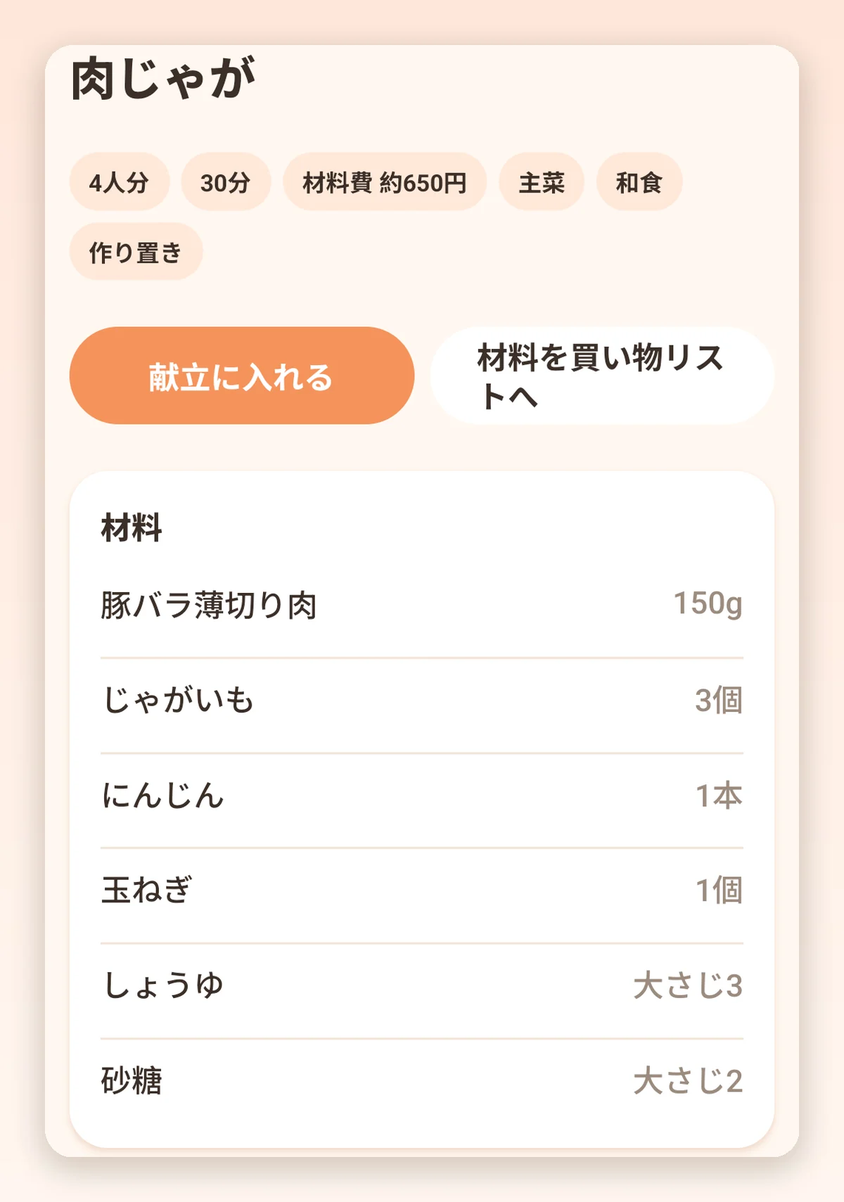
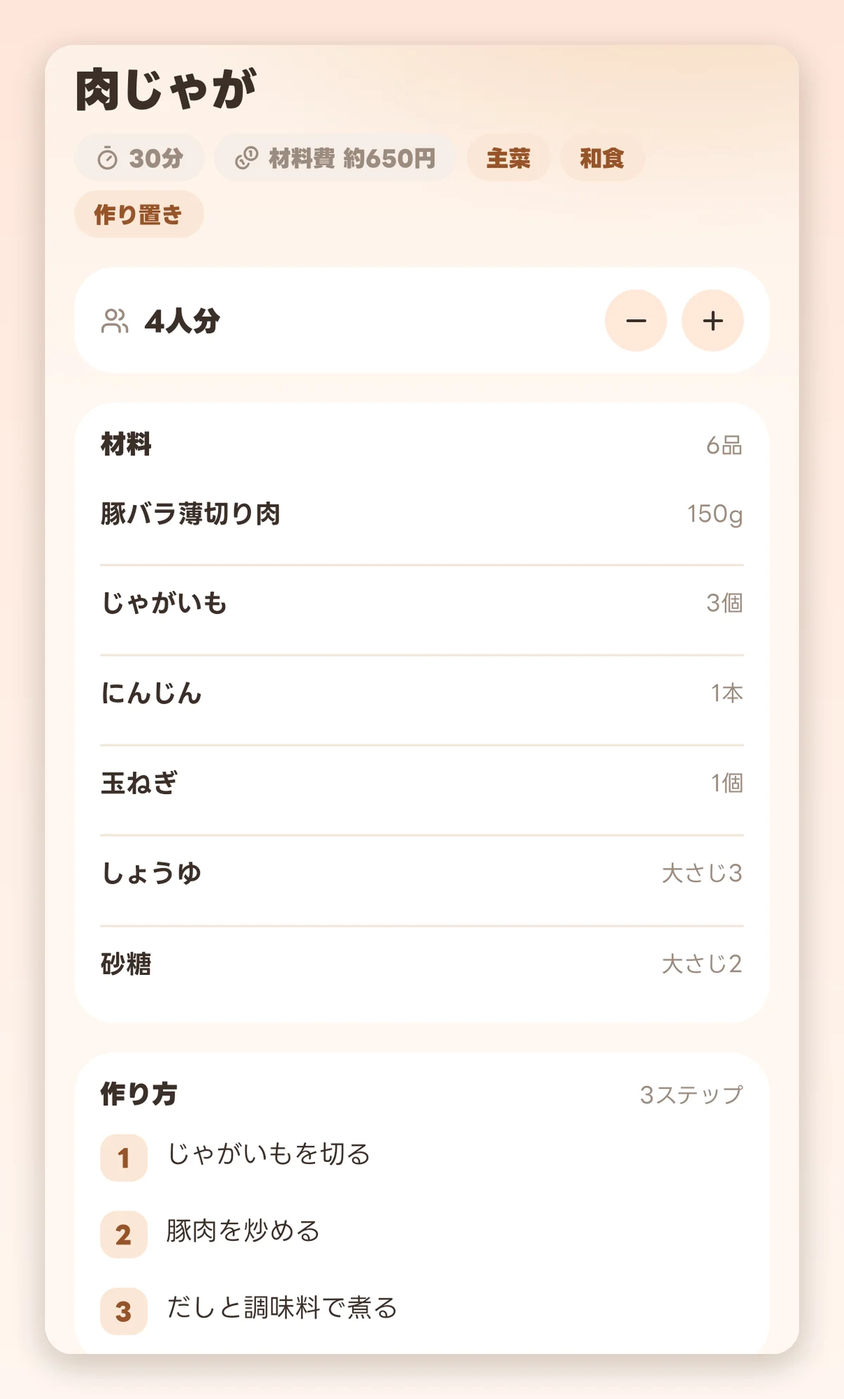
コラムのアプリの画面を、いまのアプリで撮りなおしたものに入れかえる

diff --git a/column/kakeibo-tsuzukanai/index.html b/column/kakeibo-tsuzukanai/index.html
@@ -213,10 +213,10 @@
 <p>学校の集金や行事の費用は、プリントで前もって知らされます。締切と金額を先にひかえておくと、「急な出費」が減ります。プリントの扱い方は、<a href="/column/school-print-organize/">学校のプリント整理の方法</a>で紹介しています。</p>
 <h2 id="h8">Melu Home でできること</h2>
 <p>わたしたちが作っている Melu Home には、家族の支出を記録して、月の予算とくらべる家計簿の機能があります。運営元が書いているので、できないことも正直に書きます。</p>
-<figure class="screen"><img src="/column/img/screen-budget.webp" alt="家計簿の画面。今月の支出と予算、あと何円かが出て、その下に「レシートを撮る」「写真から」「手で入れる」のボタンがある" width="1200" height="857" loading="lazy"><figcaption>家計簿の画面。今月の支出と予算、あと何円かが出て、その下に「レシートを撮る」「写真から」「手で入れる」のボタンがある</figcaption></figure>
+<figure class="screen"><img src="/column/img/screen-budget.webp" alt="家計簿の画面。今月の支出の合計と、食費が予算の何%まで来ているかが出る" width="1200" height="937" loading="lazy"><figcaption>家計簿の画面。今月の支出の合計と、食費が予算の何%まで来ているかが出る</figcaption></figure>
 <ul><li><strong>レシートを撮って入れる</strong>：レシートを撮ると、AI 秘書の「メル」がお店・日にち・金額・品目・分類を読み取ります。確かめてから保存します</li><li><strong>カードの明細から入れる</strong>：カード会社のアプリや紙の利用明細のスクリーンショットから、何行もまとめて読み取れます。レシートで入れた分と重なりそうな行は、はじめから外してあります</li><li><strong>分類ごとに予算を決められる</strong>：食費・外食・日用品・教育・学校などの分類ごとに、月の予算を決められます</li></ul>
-<figure class="screen"><img src="/column/img/screen-budget-categories.webp" alt="分類ごとの画面。食費・外食・日用品・教育・学校などが、予算に対していくら使ったかの棒で並ぶ" width="1200" height="1019" loading="lazy"><figcaption>分類ごとの画面。食費・外食・日用品・教育・学校などが、予算に対していくら使ったかの棒で並ぶ</figcaption></figure>
-<figure class="screen"><img src="/column/img/screen-receipt.webp" alt="レシートを確かめる画面。読み取った金額・日にち・分類を、保存の前に直せる" width="1200" height="1230" loading="lazy"><figcaption>レシートを確かめる画面。読み取った金額・日にち・分類を、保存の前に直せる</figcaption></figure>
+<figure class="screen"><img src="/column/img/screen-budget-categories.webp" alt="分類ごとの画面。光熱・通信、交通、食費、日用品などが、多い順に並ぶ" width="1200" height="900" loading="lazy"><figcaption>分類ごとの画面。光熱・通信、交通、食費、日用品などが、多い順に並ぶ</figcaption></figure>
+<figure class="screen"><img src="/column/img/screen-budget-input.webp" alt="支出の入れ方の画面。「写真から読み取る」「カードの明細から」「手で入れる」「収入を入れる」が並ぶ" width="1200" height="1016" loading="lazy"><figcaption>支出の入れ方の画面。「写真から読み取る」「カードの明細から」「手で入れる」「収入を入れる」が並ぶ</figcaption></figure>
 <ul><li><strong>月の始まりを選べる</strong>：給料日に合わせて、月の始まりの日を選べます</li><li><strong>収入も入れられる</strong>：給料や児童手当などを入れると、残りの金額が出ます</li><li><strong>メルに聞ける</strong>：「食費あといくら？」と聞くと、メルが答えます</li><li><strong>支払いのやることとつながる</strong>：「遠足の参加費 1,500円」のような支払いを「できた」にすると、家計簿にも入ります</li><li><strong>大人だけが見られる</strong>：家計簿は、家族の中の大人だけに見えます。子どもには見えません</li></ul>
 <aside class="note"><p>AI の読み取りは、かすれたレシートや長いレシートでは読みまちがえることがあります。保存の前に、金額と日にちだけは確かめてください。</p></aside>
 <p>家計簿の機能は、手で入れるかぎり無料で使えます。レシートとカードの明細の読み取りは、無料では合わせて月3回までです。有料の「Melu プラス」（月額980円、または年額9,800円。はじめの1か月は無料）では、月100回まで読み取れます。</p>

diff --git a/column/kaimono-list-kyoyu/index.html b/column/kaimono-list-kyoyu/index.html
@@ -208,9 +208,9 @@
 <p>買い物リストのもとになるのは、献立です。1週間の献立を先に決めて、必要な材料をまとめてリストに入れると、平日の買い物の回数を減らせます。献立の決め方は、<a href="/column/kondate-kimaranai/">献立が決まらないときの5つのコツ</a>でくわしく紹介しています。</p>
 <h2 id="h9">Melu Home でできること</h2>
 <p>わたしたちが作っている Melu Home には、家族で1つの買い物リストを共有する機能があります。運営元が書いているので、できないことも正直に書きます。</p>
-<figure class="screen"><img src="/column/img/screen-shopping.webp" alt="買い物リストの画面。「たまご」「トイレットペーパー」が並び、だれが追加したかが出ている" width="1200" height="1073" loading="lazy"><figcaption>買い物リストの画面。「たまご」「トイレットペーパー」が並び、だれが追加したかが出ている</figcaption></figure>
+<figure class="screen"><img src="/column/img/screen-shopping.webp" alt="買い物リストの画面。品物ごとに、だれが追加したか、メルや LINE から入ったかが出ている" width="1200" height="1678" loading="lazy"><figcaption>買い物リストの画面。品物ごとに、だれが追加したか、メルや LINE から入ったかが出ている</figcaption></figure>
 <ul><li><strong>1行で入れられる</strong>：「牛乳 2本」「豚こま 250g」と打つと、名前と数を分けて入ります</li><li><strong>話しかけて入れられる</strong>：AI 秘書の「メル」に「牛乳と卵買っといて」と話しかけると、リストに入ります</li><li><strong>だれが足したかが分かる</strong>：品物ごとに、だれが追加したかが出ます。だれかが足すと、ほかの大人にお知らせが届きます</li><li><strong>また買う</strong>：最近買ったものが並び、押すだけでもう一度リストに入ります</li><li><strong>献立の材料をまとめて入れる</strong>：その週の献立の材料を、まとめてリストに入れられます。同じ材料は足し算されます</li><li><strong>レシートでチェックがつく</strong>：家計簿でレシートを読み取ると、リストにある品物に自動でチェックがつきます</li></ul>
-<figure class="screen"><img src="/column/img/screen-meal-shopping.webp" alt="献立の材料を買い物リストへ入れる画面。同じ材料は足し算され、家にあるものはチェックを外せる" width="1200" height="1755" loading="lazy"><figcaption>献立の材料を買い物リストへ入れる画面。同じ材料は足し算され、家にあるものはチェックを外せる</figcaption></figure>
+<figure class="screen"><img src="/column/img/screen-meal-shopping.webp" alt="献立の材料を買う画面。同じ材料は足し算され、家にあるものはチェックを外せる" width="1200" height="1617" loading="lazy"><figcaption>献立の材料を買う画面。同じ材料は足し算され、家にあるものはチェックを外せる</figcaption></figure>
 <p>買い物リストの機能は、無料で使えます。メルとのおしゃべりは、無料では1日5回までです。</p>
 <h3>いまはできないこと</h3>
 <ul><li><strong>売り場ごと（野菜・肉・日用品など）に並べること</strong>は、まだできません</li><li><strong>品物ごとのメモや、買う人の担当</strong>は入れられません。銘柄などは、名前の中に書きます</li><li><strong>お店ごとにリストを分けること</strong>はできません。家族で1つのリストです</li><li><strong>LINE からリストに入れる機能</strong>は、有料の「Melu プラス」（月額980円、または年額9,800円。はじめの1か月は無料）で使えます</li></ul>

diff --git a/column/family-calendar-app-erabikata/index.html b/column/family-calendar-app-erabikata/index.html
@@ -213,7 +213,7 @@
 <p>わたしたちが作っている Melu Home を、この7つのチェックポイントに当てはめて紹介します。運営元が書いているので、できないことも正直に書きます。</p>
 <figure class="screen"><img src="/column/img/screen-calendar.webp" alt="家族のカレンダーのイメージ。人ごとに色が分かれ、上のボタンで人をしぼれる" width="1200" height="1498" loading="lazy"><figcaption>家族のカレンダーのイメージ。人ごとに色が分かれ、上のボタンで人をしぼれる</figcaption></figure>
 <div class="table"><table class="two"><thead><tr><th>チェックポイント</th><th>Melu Home</th></tr></thead><tbody><tr><td data-label="チェックポイント">1. 入力の手間</td><td data-label="Melu Home">プリントの写真・PDF・文章を渡すと、AI 秘書の「メル」が予定を読み取って登録。メルに話しかけて入れることもできる</td></tr><tr><td data-label="チェックポイント">2. だれの予定か</td><td data-label="Melu Home">人ごとの色分け。「家族全体」「わたし」など人ごとにしぼれる。月と週の表示</td></tr><tr><td data-label="チェックポイント">3. だれが動くか</td><td data-label="Melu Home">「だれの予定」と「動く人（送迎・付き添い）」を分けて入れられる</td></tr><tr><td data-label="チェックポイント">4. 持ち物・やること</td><td data-label="Melu Home">予定に持ち物をつけてチェックできる。提出・支払いなどのやることは、締切がカレンダーにも出る</td></tr><tr><td data-label="チェックポイント">5. お知らせ</td><td data-label="Melu Home">予定は前日の夜・当日の朝・直前など。やることは締切の3日前・前日・当日</td></tr><tr><td data-label="チェックポイント">6. 家族みんなが使えるか</td><td data-label="Melu Home">招待コードで家族を招く。iPhone と Android に対応。子どもには支払いと家計簿を見せない</td></tr><tr><td data-label="チェックポイント">7. 料金</td><td data-label="Melu Home">無料ではじめられる。予定・やることの共有は無料。AI の読み取りは無料で月5回まで</td></tr></tbody></table></div>
-<figure class="screen"><img src="/column/img/screen-who-goes.webp" alt="メルとのチャットの画面。歯医者の予定に「だれの：たろう」「付き添い：ママ」「持ち物：保険証」が入っている" width="1200" height="1006" loading="lazy"><figcaption>メルとのチャットの画面。歯医者の予定に「だれの：たろう」「付き添い：ママ」「持ち物：保険証」が入っている</figcaption></figure>
+<figure class="screen"><img src="/column/img/screen-event.webp" alt="予定のくわしい画面。保育園のお迎えの予定に「だれの予定：はなこ」「動く人：パパ」が分けて入っている" width="1200" height="942" loading="lazy"><figcaption>予定のくわしい画面。保育園のお迎えの予定に「だれの予定：はなこ」「動く人：パパ」が分けて入っている</figcaption></figure>
 <h3>Melu Home に向いている家庭</h3>
 <ul><li>学校や園のプリントが多く、カレンダーに入れるのが追いつかない</li><li>送迎や付き添いの分担を、予定と一緒に決めたい</li><li>予定だけでなく、提出物や持ち物まで1つのアプリで見たい</li></ul>
 <h3>いまはできないこと</h3>

diff --git a/column/kaji-buntan-tomobataraki/index.html b/column/kaji-buntan-tomobataraki/index.html
@@ -213,9 +213,9 @@
 <p>「減らす」「やめる」も、立派な分担の1つです。</p>
 <h2 id="h8">Melu Home でできること</h2>
 <p>わたしたちが作っている Melu Home には、家事の当番を家族で共有する機能があります。運営元が書いているので、できないことも正直に書きます。</p>
-<figure class="screen"><img src="/column/img/screen-chores-list.webp" alt="家事の一覧の画面。お風呂掃除は「月・水・金・交代で」、ゴミ出しは「火・金・決まった人」と決めてある" width="1200" height="714" loading="lazy"><figcaption>家事の一覧の画面。お風呂掃除は「月・水・金・交代で」、ゴミ出しは「火・金・決まった人」と決めてある</figcaption></figure>
+<figure class="screen"><img src="/column/img/screen-chores-list.webp" alt="家事の一覧の画面。お風呂掃除は「月・水・金・交代で」、ゴミ出しは「火・金・決まった人」と決めてある" width="1200" height="872" loading="lazy"><figcaption>家事の一覧の画面。お風呂掃除は「月・水・金・交代で」、ゴミ出しは「火・金・決まった人」と決めてある</figcaption></figure>
 <ul><li><strong>曜日と担当を決められる</strong>：家事ごとに、やる曜日と担当（だれでも・決まった人・交代で）を選べます。ゴミ出しやお風呂掃除など、よくある家事は一覧から選べます</li><li><strong>その日の担当に知らせる</strong>：決まった人・交代の家事は、その日の担当の人にお知らせが届きます</li><li><strong>やったら押すだけ</strong>：今日の家事を押すと「やった」になります。AI 秘書の「メル」に「お風呂掃除やったよ」と話しかけても記録できます</li><li><strong>やったことが見える</strong>：「今週のがんばり」に、家族それぞれの回数とポイントが並びます</li></ul>
-<figure class="screen"><img src="/column/img/screen-chores-today.webp" alt="家事の画面。今日の家事にだれがやったかが出て、その下に今週のがんばりが並ぶ" width="1200" height="1534" loading="lazy"><figcaption>家事の画面。今日の家事にだれがやったかが出て、その下に今週のがんばりが並ぶ</figcaption></figure>
+<figure class="screen"><img src="/column/img/screen-chores-today.webp" alt="家事の画面。今日の家事にだれがやったかが出て、その下に今週のがんばりが並ぶ" width="1200" height="1554" loading="lazy"><figcaption>家事の画面。今日の家事にだれがやったかが出て、その下に今週のがんばりが並ぶ</figcaption></figure>
 <p>家事の機能は、無料で使えます。メルとのおしゃべりは、無料では1日5回までです。</p>
 <h3>いまはできないこと</h3>
 <ul><li><strong>当番の交換や、「この日だけとばす」</strong>はできません。予定が変わった日は、口で伝える必要があります</li><li><strong>記録できるのは、今日と昨日の分だけ</strong>です。それより前の分は、あとから入れられません</li><li><strong>家事ごとの記録をさかのぼって見ること</strong>は、まだできません</li><li><strong>LINE からメルに伝える機能</strong>は、有料の「Melu プラス」（月額980円、または年額9,800円。はじめの1か月は無料）で使えます</li></ul>

diff --git a/column/otetsudai-gohoubi/index.html b/column/otetsudai-gohoubi/index.html
@@ -219,9 +219,9 @@
 <ul><li>忘れた日にポイントをひくのは、おすすめしません。やる気が下がりやすいからです</li><li>きょうだいで年齢がちがう場合は、お手伝いの内容を変えて、同じくらいのポイントがたまるようにします</li><li>ポイントがなくてもやってくれたときは、「ありがとう」をいつもより多めに伝えます</li></ul>
 <h2 id="h6">Melu Home でできること</h2>
 <p>わたしたちが作っている Melu Home には、家事の当番と、ポイント・ごほうびの機能があります。運営元が書いているので、できないことも正直に書きます。</p>
-<figure class="screen"><img src="/column/img/screen-chores-today.webp" alt="家事の画面。今日の家事にだれがやったかが出て、その下に今週のがんばりが並ぶ" width="1200" height="1534" loading="lazy"><figcaption>家事の画面。今日の家事にだれがやったかが出て、その下に今週のがんばりが並ぶ</figcaption></figure>
+<figure class="screen"><img src="/column/img/screen-chores-today.webp" alt="家事の画面。今日の家事にだれがやったかが出て、その下に今週のがんばりが並ぶ" width="1200" height="1554" loading="lazy"><figcaption>家事の画面。今日の家事にだれがやったかが出て、その下に今週のがんばりが並ぶ</figcaption></figure>
 <ul><li><strong>お手伝いを当番にできる</strong>：家事ごとに、曜日と担当（だれでも・決まった人・交代で）と、1回ごとのポイントを決められます</li><li><strong>やったら押すだけでポイントがたまる</strong>：今日の家事を押すと「やった」になり、その家事のポイントがたまります</li><li><strong>ごほうびは大人が決める</strong>：ごほうびの名前と必要なポイントを、大人が決めます。はじめは例から選べます</li><li><strong>たまったら交換できる</strong>：ポイントが足りていれば、ごほうびの「交換」を押せます</li></ul>
-<figure class="screen"><img src="/column/img/screen-rewards.webp" alt="ポイントとごほうびの画面。「好きなおやつ 2pt」「ゲーム30分 20pt」のごほうびと、家族それぞれのポイントが並ぶ" width="1200" height="1697" loading="lazy"><figcaption>ポイントとごほうびの画面。「好きなおやつ 2pt」「ゲーム30分 20pt」のごほうびと、家族それぞれのポイントが並ぶ</figcaption></figure>
+<figure class="screen"><img src="/column/img/screen-rewards.webp" alt="ごほうびの画面。いまのポイントと、「好きなおやつ 2pt」「ゲーム30分 20pt」のごほうびが並び、「交換」のボタンがある" width="1200" height="1071" loading="lazy"><figcaption>ごほうびの画面。いまのポイントと、「好きなおやつ 2pt」「ゲーム30分 20pt」のごほうびが並び、「交換」のボタンがある</figcaption></figure>
 <ul><li><strong>スマホを持たない子も使える</strong>：大人が「だれがやった？」でその子を選んで記録でき、交換も大人が代わりにできます</li><li><strong>家族みんなのポイントが見える</strong>：子どもだけでなく、大人のがんばりも並びます</li></ul>
 <p>家事とごほうびの機能は、無料で使えます。</p>
 <h3>いまはできないこと</h3>

diff --git a/column/kondate-kimaranai/index.html b/column/kondate-kimaranai/index.html
@@ -218,8 +218,9 @@
 <ul><li><strong>家族の食の好み</strong>：「ピーマンが苦手」「卵アレルギー」など、家族の設定に入れた内容</li><li><strong>家族の予定</strong>：遠足の日はお弁当、誕生日は少し特別な料理、など</li><li><strong>食費の残り</strong>：家計簿を使っている場合は、今月の食費の残り</li><li><strong>家族のレシピ</strong>：保存してあるレシピや、お気に入りにしたレシピ</li></ul>
 <aside class="note"><p>アレルギーのある家族がいる場合、メルの提案はあくまで案です。実際に使う食材や調味料の原材料は、必ず自分の目で確かめてください。</p></aside>
 <h3>献立の材料を、買い物リストへ</h3>
-<p>献立の画面で「この週の材料を買い物リストへ」を押すと、その週の料理の材料がまとまります。同じ材料は足し算され、家にあるものはチェックを外してから入れられます。</p>
-<figure class="screen"><img src="/column/img/screen-meal-shopping.webp" alt="材料を買い物リストへ入れる画面。同じ材料は足し算され、調味料ははじめからチェックが外れている" width="1200" height="1755" loading="lazy"><figcaption>材料を買い物リストへ入れる画面。同じ材料は足し算され、調味料ははじめからチェックが外れている</figcaption></figure>
+<p>献立の画面で「材料を買う」を押すと、その週の料理の材料がまとまります。同じ材料は足し算され、家にあるものはチェックを外してから入れられます。</p>
+<figure class="screen"><img src="/column/img/screen-meals.webp" alt="献立の画面。1週間の日にちと、今夜の料理、何人分かが出る" width="1200" height="1207" loading="lazy"><figcaption>献立の画面。1週間の日にちと、今夜の料理、何人分かが出る</figcaption></figure>
+<figure class="screen"><img src="/column/img/screen-meal-shopping.webp" alt="材料を買う画面。同じ材料は足し算され、調味料ははじめからチェックが外れている" width="1200" height="1617" loading="lazy"><figcaption>材料を買う画面。同じ材料は足し算され、調味料ははじめからチェックが外れている</figcaption></figure>
 <ul><li><strong>買い物リストは家族で1つ</strong>：だれかが足すと、ほかの大人にお知らせが届きます</li><li><strong>レシピを保存できる</strong>：レシピサイトの URL、コピーした文章、料理本の写真から読み取って保存できます（読み取りは、無料では月3回まで）</li><li><strong>何人分かを決められる</strong>：家族の人数に合わせて、材料の分量が変わります</li></ul>
 <p>献立・買い物リスト・レシピの機能は、無料で使えます。メルとのおしゃべりは、無料では1日5回までです。</p>
 <h3>いまはできないこと</h3>

diff --git a/column/recipe-seiri/index.html b/column/recipe-seiri/index.html
@@ -219,7 +219,7 @@
 <li><i>4</i><strong>材料を買い物リストへ</strong><span>家族みんなに伝わる</span></li>
 </ol>
 </figure>
-<figure class="screen"><img src="/column/img/screen-recipe.webp" alt="レシピの画面。肉じゃがの人数・時間・材料費・タグと、材料、作り方が並ぶ。「献立に入れる」「材料を買い物リストへ」のボタンがある" width="1200" height="1709" loading="lazy"><figcaption>レシピの画面。肉じゃがの人数・時間・材料費・タグと、材料、作り方が並ぶ。「献立に入れる」「材料を買い物リストへ」のボタンがある</figcaption></figure>
+<figure class="screen"><img src="/column/img/screen-recipe.webp" alt="レシピの画面。肉じゃがの時間・材料費・タグ、何人分か、材料、作り方が並ぶ" width="1200" height="1989" loading="lazy"><figcaption>レシピの画面。肉じゃがの時間・材料費・タグ、何人分か、材料、作り方が並ぶ</figcaption></figure>
 <ul><li><strong>渡せるもの</strong>：レシピサイトの URL、コピーした文章、料理本やメモの写真。手で入れることもできます</li><li><strong>探せる</strong>：料理名、タグ（主菜・和食・時短など）、材料（「鶏肉」など）で探せます</li><li><strong>お気に入り</strong>：星を押すと、一覧の上に出ます。家族で共有されます</li><li><strong>何人分かを変えられる</strong>：家族の人数に合わせて、材料の分量が変わります</li><li><strong>献立と買い物リストにつながる</strong>：レシピから献立に入れたり、材料を買い物リストに入れたりできます</li><li><strong>家族で同じレシピを見られる</strong>：だれが作るときも、同じレシピを開けます</li></ul>
 <aside class="note"><p>AI の読み取りは、手書きのメモや、写真の文字が小さい場合に読みまちがえることがあります。保存の前に、分量だけは確かめてください。保存したレシピは、家族の中で使うためのものです。</p></aside>
 <p>レシピを手で入れる・探す・献立に入れる機能は、無料で使えます。レシピの読み取りは、無料では月3回までです。有料の「Melu プラス」（月額980円、または年額9,800円。はじめの1か月は無料）では、月50回まで読み取れます。</p>

diff --git a/column/school-print-organize/index.html b/column/school-print-organize/index.html
@@ -219,7 +219,7 @@
 </figure>
 <figure class="screen"><img src="/column/img/screen-read-result.webp" alt="読み取りの結果のイメージ。1枚のプリントから、予定・やること・持ち物ができる" width="1200" height="1382" loading="lazy"><figcaption>読み取りの結果のイメージ。1枚のプリントから、予定・やること・持ち物ができる</figcaption></figure>
 <ul><li><strong>渡せるもの</strong>：カメラで撮った写真、スマホの中の写真（一度に5枚まで）、PDF、メールなどの文章</li><li><strong>読み取るもの</strong>：日時・場所・持ち物・提出物・支払いの金額・だれの予定か</li><li><strong>登録の前に確かめられる</strong>：読み取った内容は、登録する前に直せます。読みにくかったところは、メルが「ここを確認してね」と知らせます</li><li><strong>締切の前に知らせる</strong>：やることは締切の3日前・前日・当日に、予定は前日の夜・当日の朝・直前にお知らせが届きます</li><li><strong>あとから探せる</strong>：渡したプリントは「書類ボックス」に残り、「遠足」「予防接種」などの言葉で探せます</li></ul>
-<figure class="screen"><img src="/column/img/screen-docs.webp" alt="書類ボックスの画面。渡したプリントが、学校・園、健康・病院などに分かれて並ぶ" width="1200" height="1184" loading="lazy"><figcaption>書類ボックスの画面。渡したプリントが、学校・園、健康・病院などに分かれて並ぶ</figcaption></figure>
+<figure class="screen"><img src="/column/img/screen-docs.webp" alt="書類ボックスの画面。渡したプリントが並び、「学校・園」「習い事」「健康・病院」などでしぼれる" width="1200" height="997" loading="lazy"><figcaption>書類ボックスの画面。渡したプリントが並び、「学校・園」「習い事」「健康・病院」などでしぼれる</figcaption></figure>
 <p>家族で同じ内容を見られるので、「聞いてない」が減ります。</p>
 <aside class="note"><p>AI の読み取りは、手書きの文字やかすれた印刷では読みまちがえることがあります。登録の前の確認画面で、日にちと金額だけは目で確かめるのがおすすめです。</p></aside>
 <aside class="cta">

diff --git a/column/wasuremono-taisaku/index.html b/column/wasuremono-taisaku/index.html
@@ -222,7 +222,7 @@
 </figure>
 <figure class="screen"><img src="/column/img/screen-remind.webp" alt="メルからのお知らせのイメージ。「できた」「まだ」のボタンで答えられる" width="1200" height="1052" loading="lazy"><figcaption>メルからのお知らせのイメージ。「できた」「まだ」のボタンで答えられる</figcaption></figure>
 <ul><li><strong>提出や支払いなどのやること</strong>：締切の3日前・前日・当日にお知らせ。「できた」「まだ」をお知らせのボタンで答えられます</li><li><strong>行事などの予定</strong>：前日の夜・当日の朝・直前にお知らせ。プリントに書かれた持ち物も、予定といっしょに確かめられます</li><li><strong>持ち物のチェック</strong>：予定を開くと、持ち物を1つずつチェックできます</li><li><strong>家族で共有</strong>：同じ家族のメンバーが、同じ予定とやることを見られます</li></ul>
-<figure class="screen"><img src="/column/img/screen-today.webp" alt="ホームの画面。今日やることと、今日の予定が1つの画面に並ぶ" width="1200" height="1321" loading="lazy"><figcaption>ホームの画面。今日やることと、今日の予定が1つの画面に並ぶ</figcaption></figure>
+<figure class="screen"><img src="/column/img/screen-tasks.webp" alt="やることの画面。期限切れ・今日・7日以内の件数と、だれのやることかが並ぶ" width="1200" height="1781" loading="lazy"><figcaption>やることの画面。期限切れ・今日・7日以内の件数と、だれのやることかが並ぶ</figcaption></figure>
 <p>「覚えておく」のをメルにまかせると、親は前日の夜に持ち物をそろえることに集中できます。</p>
 <aside class="cta">
   <img src="/img/mel.webp" alt="" width="96" height="96" loading="lazy">
